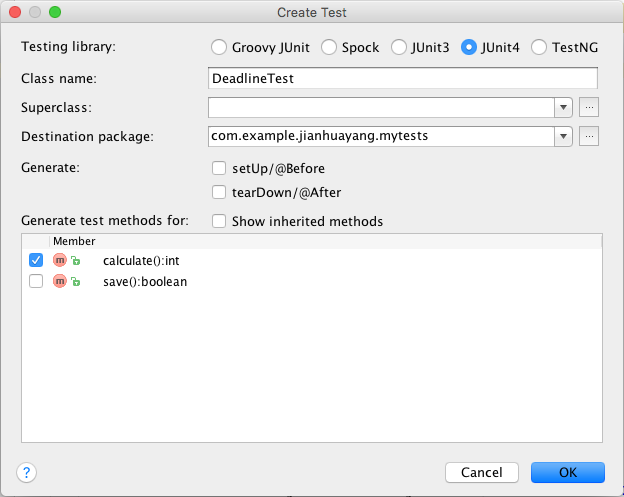
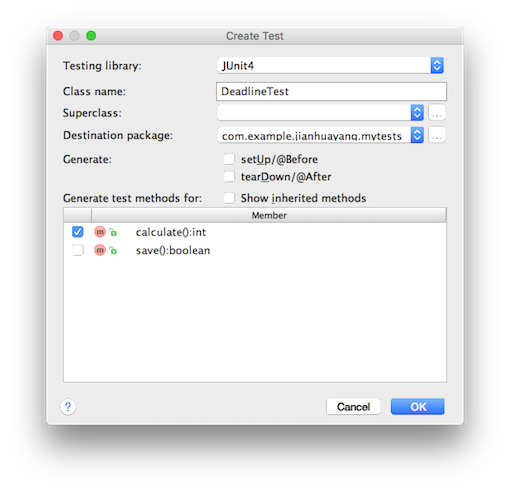
before mock

Changed region(s): [[0.0, 0.0, 1.0, 0.9776], [0.0, 0.9165, 0.0588, 1.0], [0.9706, 0.9776, 1.0, 1.0]]

diff --git a/Weeks_(old)/Week_07_Testing/MyTests/app/src/test/java/com/example/jianhuayang/mytests/DeadlineTest.java b/Weeks_(old)/Week_07_Testing/MyTests/app/src/test/java/com/example/jianhuayang/mytests/DeadlineTest.java
@@ -1,0 +1,17 @@
+package com.example.jianhuayang.mytests;
+
+import org.junit.Test;
+
+import static org.junit.Assert.*;
+
+/**
+ * Created by jianhuayang on 10/11/2016.
+ */
+public class DeadlineTest {
+    @Test
+    public void calculate() throws Exception {
+        Deadline deadline = new Deadline("12/12/16");
+        assertEquals(deadline.calculate(), 1);
+    }
+
+}

diff --git a/Weeks_(old)/Week_07_Testing/README.md b/Weeks_(old)/Week_07_Testing/README.md
@@ -38,7 +38,7 @@ Now this explains the idea of testing. Instead of JUnit, you can find other tool
 
 > The lastest version of JUnit is 4, but some online tutorials still use JUnit 3. A lot of syntax between the two versions are the same. But the differences are also huge. The most noticeable difference is the use of annotations in JUnit 4 such as `@Before` and `@after` in replacement of `setup()` and `tearDown()` in JUnit 3. Click to read a nice blog on [JUnit 4 annotations](http://javarevisited.blogspot.co.uk/2012/06/junit4-annotations-test-examples-and.html).
 
-> Some people use `@Before setup()` in their codes. Once you see this you know straightaway it's JUnit 4. Here `setup()` is just a name, not an overriding method anymore.
+> Some tutorials use `@Before setup()` in the code. Once you see this you know straightaway it's JUnit 4. Here `setup()` is just a name, not an overriding method anymore.
 
 ## Lab 1 Unit testing
 
@@ -94,7 +94,7 @@ Let's have a look at the default tests generated by Android Studio
     
     ![](.md_images/export.png)
     
-    > If you follow some online tutorials, you'll find that some talks about HTML reports generated in build/reports folder. Forget about it, those have been deprecated!
+    > In some online tutorials, you'll see that they talk about HTML reports generated in build/reports folder. Forget about it, those have been deprecated!
 
 Now you have just finished your first ever tests!
 
@@ -284,31 +284,41 @@ Follow steps below to create the app. This is a simple app and should be self-ex
 
 The critical part of the app above is the capability to calculate time differences. Now let's design a test for this.
 
-1. Open Deadline.java, navigate your cursor to be within the class body (but outsite of member methods), right-click and select Go To ==> Test.
+1. Open Deadline.java, navigate your cursor to be within the class body, right-click and select Go To ==> Test.
     
     ![](.md_images/goto.png)
     
-3. In the window that pops up, select Create New Test. Then change from JUnit3 to Junit4, check the 'calculate' box, click OK.
+2. In the window that pops up, select Create New Test. Then in the Create Test window check the 'calculate()' checkbox, click OK.
     
     ![](.md_images/create.png)
     
-    We just created a testing class for Deadline, and this new class appears in the test package.
+3. Choose the 'test' folder in the Direcotry Structure tab, and click OK. You just created a testing class for Deadline, and this new class appears in the test package.
     
     ![](.md_images/testclass.png)
     
-4. Insert the following into `DeadlineTest()` so it becomes
+4. Insert the following into `calculate()`
     
     ```java
-    @Test
-    public void testCalculate() throws Exception {
-        Deadline deadline = new Deadline("17/12/15");
-        assertEquals(deadline.calculate(), 1);
+    Deadline deadline = new Deadline("12/12/16");
+    assertEquals(deadline.calculate(), 1);
+    ```
+    
+    Now your DeadlineTest class looks like the following:
+    
+    ```java
+    public class DeadlineTest {
+        @Test
+        public void calculate() throws Exception {
+            Deadline deadline = new Deadline("12/12/16");
+            assertEquals(deadline.calculate(), 1);
+        }
+        
     }
     ```
     
     The test itself is a public class. Here we use an annotation to mark the actual test we want to run, which is a member method in that class. We then simply declare a new instance of the class that we know the calculation result.
     
-5. If you right-click on the DeadlineTest in Project tool window and click Run 'DeadlineTest', you'll see something similar to below:
+5. If you right-click on the DeadlineTest in Project tool window and choose Run 'DeadlineTest', you'll see something similar to below:
     
     ![](.md_images/unitresult.png)
     
